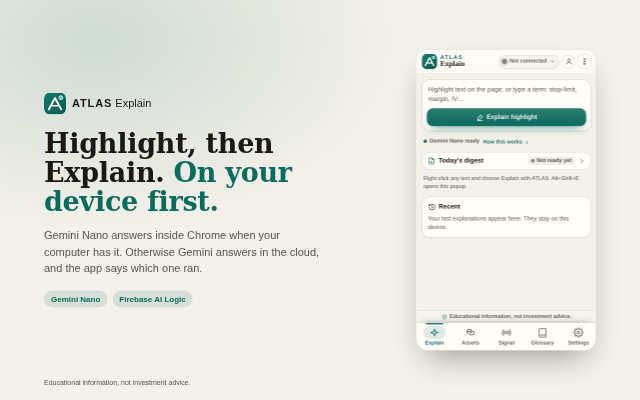
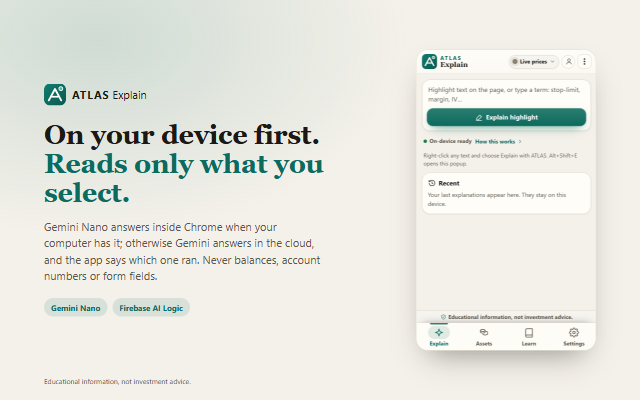
feat(store): search and link previews, fresh store images, optional ATLAS host
- Canonical URL, Open Graph and Twitter tags on every public page; 404 is noindex.
- robots.txt and sitemap.xml; a 1200x630 link-preview image.
- The localhost ATLAS host moves to optional_host_permissions, requested from a click in
  Settings ("For ATLAS users"). Install now warns only about our own website.
- Store images regenerated from the current popup, including a new Assets screenshot with
  live CoinGecko prices. Capture and render need only Node and Chrome (no Playwright).
- CHROME_STORE.md: permissions table, data usage and the manifest audit brought up to date.
- Tests: SEO tags, sitemap and robots; store doc covers optional hosts.

diff --git a/extension/src/popup.ts b/extension/src/popup.ts
@@ -196,10 +196,14 @@ let assets: ReturnType<typeof mountAssets> | null = null;
 let atlasLocal = false;
 let livePrices = false;
 
+/** ATLAS on this computer is read only after its owner grants this optional permission (Settings). */
+const ATLAS_ORIGINS = ["http://localhost:3000/*"];
+let atlasAllowed = false;
+
 function startAssets(priceFeed: PriceFeedOptions = DEFAULT_PRICE_FEED): void {
   assets = mountAssets({
     shell,
-    canReachAtlas: hasChrome,
+    canReachAtlas: hasChrome && atlasAllowed,
     priceFeed,
     // Kept on this device in the extension; account sync for the extension comes through the website later.
     watchlist: createWatchlist(localKeyValue(), null),
@@ -275,6 +279,14 @@ shell.panels.glossary.append(glossaryHead, learnSlot);
 /* ---------- Settings tab ---------- */
 
 const toolsStatus = el("p", "fine");
+// Asks for the optional localhost permission in the click itself (Chrome requires a user gesture).
+const atlasRow = row("plug", "Connect ATLAS on this computer", () => {
+  if (!hasChrome) return;
+  const change = atlasAllowed
+    ? chrome.permissions.remove({ origins: ATLAS_ORIGINS })
+    : chrome.permissions.request({ origins: ATLAS_ORIGINS });
+  void change.then(() => location.reload()).catch(() => undefined);
+});
 toolsStatus.setAttribute("role", "status");
 const themeSlot = el("div");
 const version = hasChrome ? chrome.runtime.getManifest().version : "preview";
@@ -300,6 +312,10 @@ shell.panels.settings.append(
   group("Your data", [
     el("p", "fine", "Download your data or delete your account on the ATLAS Explain website. Recent explanations in the extension stay in this browser; clear them from Recent."),
     row("external", "Download or delete your data", () => openUrl(`${EXPLAIN_WEB_URL}/app/account`)),
+  ]),
+  group("For ATLAS users", [
+    el("p", "fine", "If you run ATLAS research software on this computer, ATLAS Explain can read its prices and research figures. Most people don't need this."),
+    atlasRow,
   ]),
   group("About", [el("p", "fine", `ATLAS Explain ${version} · Apache-2.0 · ${SHORTCUT_HINT}`), row("external", "Open the web app", () => openUrl(EXPLAIN_WEB_URL))]),
 );
@@ -358,6 +374,9 @@ async function boot(): Promise<void> {
     if (import.meta.env.DEV) applyPreviewState();
     return;
   }
+  atlasAllowed = await chrome.permissions.contains({ origins: ATLAS_ORIGINS }).catch(() => false);
+  const atlasLabel = atlasRow.querySelector("span");
+  if (atlasLabel && atlasAllowed) atlasLabel.textContent = "Disconnect ATLAS on this computer";
   const priceFeed: PriceFeedOptions = { ...DEFAULT_PRICE_FEED };
   startAssets(priceFeed);
   void import("./cloud").then(async (cloud) => {

diff --git a/test/seo.test.ts b/test/seo.test.ts
@@ -1,0 +1,53 @@
+import { existsSync, readFileSync } from "node:fs";
+import { describe, expect, it } from "vitest";
+
+const BASE = "https://atlas-explain.web.app";
+const PAGES: Record<string, string> = {
+  "index.html": "/",
+  "how-it-works.html": "/how-it-works",
+  "how-its-built.html": "/how-its-built",
+  "welcome.html": "/welcome",
+  "support.html": "/support",
+  "privacy.html": "/privacy",
+  "terms.html": "/terms",
+  "app.html": "/app",
+};
+const meta = (html: string, attr: "name" | "property", key: string) =>
+  new RegExp(`<meta ${attr}="${key}" content="([^"]*)"`).exec(html)?.[1];
+
+describe("search and link previews", () => {
+  for (const [file, path] of Object.entries(PAGES)) {
+    it(`${file} has a canonical URL, a description and a full link preview`, () => {
+      const html = readFileSync(file, "utf8");
+      expect(html).toContain(`<link rel="canonical" href="${BASE}${path}" />`);
+      const desc = meta(html, "name", "description") ?? "";
+      expect(desc.length).toBeGreaterThan(40);
+      expect(desc.length).toBeLessThanOrEqual(170);
+      expect(meta(html, "property", "og:description")).toBe(desc);
+      expect(meta(html, "property", "og:url")).toBe(`${BASE}${path}`);
+      expect(meta(html, "property", "og:image")).toBe(`${BASE}/og/atlas-explain.png`);
+      expect(meta(html, "property", "og:title")).toBeTruthy();
+      expect(meta(html, "name", "twitter:card")).toBe("summary_large_image");
+      expect(html).not.toMatch(/name="robots" content="noindex"/);
+    });
+  }
+
+  it("keeps the 404 page out of search results", () => {
+    expect(readFileSync("404.html", "utf8")).toContain('<meta name="robots" content="noindex" />');
+  });
+
+  it("ships a 1200×630 preview image", () => {
+    const b = readFileSync("public/og/atlas-explain.png");
+    expect([b.readUInt32BE(16), b.readUInt32BE(20)]).toEqual([1200, 630]);
+  });
+
+  it("lists every public page in the sitemap, and robots.txt points to it", () => {
+    const sitemap = readFileSync("public/sitemap.xml", "utf8");
+    for (const path of Object.values(PAGES)) expect(sitemap).toContain(`<loc>${BASE}${path}</loc>`);
+    expect(sitemap.match(/<loc>/g)?.length).toBe(Object.keys(PAGES).length);
+    const robots = readFileSync("public/robots.txt", "utf8");
+    expect(robots).toContain(`Sitemap: ${BASE}/sitemap.xml`);
+    expect(robots).toMatch(/Disallow: \/signin/);
+    expect(existsSync("public/og/atlas-explain.png")).toBe(true);
+  });
+});

diff --git a/how-it-works.html b/how-it-works.html
@@ -4,7 +4,18 @@
     <meta charset="UTF-8" />
     <meta name="viewport" content="width=device-width, initial-scale=1, viewport-fit=cover" />
     <title>How it works · ATLAS Explain</title>
-    <meta name="description" content="How ATLAS Explain routes answers between Gemini Nano on your device and Gemini in the cloud, where its numbers come from, and how to install it." />
+    <meta name="description" content="How ATLAS Explain works: highlight a term, get a plain explanation written on your device first, with every source named. And how to install it." />
+    <link rel="canonical" href="https://atlas-explain.web.app/how-it-works" />
+    <meta property="og:type" content="website" />
+    <meta property="og:site_name" content="ATLAS Explain" />
+    <meta property="og:title" content="How it works · ATLAS Explain" />
+    <meta property="og:description" content="How ATLAS Explain works: highlight a term, get a plain explanation written on your device first, with every source named. And how to install it." />
+    <meta property="og:url" content="https://atlas-explain.web.app/how-it-works" />
+    <meta property="og:image" content="https://atlas-explain.web.app/og/atlas-explain.png" />
+    <meta property="og:image:width" content="1200" />
+    <meta property="og:image:height" content="630" />
+    <meta property="og:image:alt" content="ATLAS Explain: market jargon, in plain language." />
+    <meta name="twitter:card" content="summary_large_image" />
     <meta name="theme-color" content="#0c6b5e" />
     <link rel="icon" href="/favicon.svg" />
     <script type="module" src="/src/site/site.ts"></script>

diff --git a/how-its-built.html b/how-its-built.html
@@ -5,6 +5,17 @@
     <meta name="viewport" content="width=device-width, initial-scale=1, viewport-fit=cover" />
     <title>How it's built · ATLAS Explain</title>
     <meta name="description" content="The technical design of ATLAS Explain: hybrid on-device and cloud AI with Firebase AI Logic, Gemini Nano and Gemini, App Check, Remote Config and the Chrome extension." />
+    <link rel="canonical" href="https://atlas-explain.web.app/how-its-built" />
+    <meta property="og:type" content="website" />
+    <meta property="og:site_name" content="ATLAS Explain" />
+    <meta property="og:title" content="How it's built · ATLAS Explain" />
+    <meta property="og:description" content="The technical design of ATLAS Explain: hybrid on-device and cloud AI with Firebase AI Logic, Gemini Nano and Gemini, App Check, Remote Config and the Chrome extension." />
+    <meta property="og:url" content="https://atlas-explain.web.app/how-its-built" />
+    <meta property="og:image" content="https://atlas-explain.web.app/og/atlas-explain.png" />
+    <meta property="og:image:width" content="1200" />
+    <meta property="og:image:height" content="630" />
+    <meta property="og:image:alt" content="ATLAS Explain: market jargon, in plain language." />
+    <meta name="twitter:card" content="summary_large_image" />
     <meta name="theme-color" content="#0c6b5e" />
     <link rel="icon" href="/favicon.svg" />
     <script type="module" src="/src/site/site.ts"></script>

diff --git a/index.html b/index.html
@@ -5,6 +5,17 @@
     <meta name="viewport" content="width=device-width, initial-scale=1, viewport-fit=cover" />
     <title>ATLAS Explain for Chrome · Market jargon in plain language</title>
     <meta name="description" content="Highlight any finance term or market headline and get a plain-language explanation. Runs on your device first. Education only, never investment advice." />
+    <link rel="canonical" href="https://atlas-explain.web.app/" />
+    <meta property="og:type" content="website" />
+    <meta property="og:site_name" content="ATLAS Explain" />
+    <meta property="og:title" content="ATLAS Explain for Chrome · Market jargon in plain language" />
+    <meta property="og:description" content="Highlight any finance term or market headline and get a plain-language explanation. Runs on your device first. Education only, never investment advice." />
+    <meta property="og:url" content="https://atlas-explain.web.app/" />
+    <meta property="og:image" content="https://atlas-explain.web.app/og/atlas-explain.png" />
+    <meta property="og:image:width" content="1200" />
+    <meta property="og:image:height" content="630" />
+    <meta property="og:image:alt" content="ATLAS Explain: market jargon, in plain language." />
+    <meta name="twitter:card" content="summary_large_image" />
     <meta name="theme-color" content="#0c6b5e" />
     <link rel="icon" href="/favicon.svg" />
     <script type="module" src="/src/site/site.ts"></script>

diff --git a/terms.html b/terms.html
@@ -5,6 +5,17 @@
     <meta name="viewport" content="width=device-width, initial-scale=1, viewport-fit=cover" />
     <title>Terms of use · ATLAS Explain</title>
     <meta name="description" content="The terms for using ATLAS Explain: education only, fair use, your account, payments and refunds, and our responsibilities." />
+    <link rel="canonical" href="https://atlas-explain.web.app/terms" />
+    <meta property="og:type" content="website" />
+    <meta property="og:site_name" content="ATLAS Explain" />
+    <meta property="og:title" content="Terms of use · ATLAS Explain" />
+    <meta property="og:description" content="The terms for using ATLAS Explain: education only, fair use, your account, payments and refunds, and our responsibilities." />
+    <meta property="og:url" content="https://atlas-explain.web.app/terms" />
+    <meta property="og:image" content="https://atlas-explain.web.app/og/atlas-explain.png" />
+    <meta property="og:image:width" content="1200" />
+    <meta property="og:image:height" content="630" />
+    <meta property="og:image:alt" content="ATLAS Explain: market jargon, in plain language." />
+    <meta name="twitter:card" content="summary_large_image" />
     <meta name="theme-color" content="#0c6b5e" />
     <link rel="icon" href="/favicon.svg" />
     <script type="module" src="/src/site/site.ts"></script>

diff --git a/privacy.html b/privacy.html
@@ -5,6 +5,17 @@
     <meta name="viewport" content="width=device-width, initial-scale=1, viewport-fit=cover" />
     <title>Privacy policy · ATLAS Explain</title>
     <meta name="description" content="What ATLAS Explain collects, what it never collects, where your data goes, and how to download or delete it." />
+    <link rel="canonical" href="https://atlas-explain.web.app/privacy" />
+    <meta property="og:type" content="website" />
+    <meta property="og:site_name" content="ATLAS Explain" />
+    <meta property="og:title" content="Privacy policy · ATLAS Explain" />
+    <meta property="og:description" content="What ATLAS Explain collects, what it never collects, where your data goes, and how to download or delete it." />
+    <meta property="og:url" content="https://atlas-explain.web.app/privacy" />
+    <meta property="og:image" content="https://atlas-explain.web.app/og/atlas-explain.png" />
+    <meta property="og:image:width" content="1200" />
+    <meta property="og:image:height" content="630" />
+    <meta property="og:image:alt" content="ATLAS Explain: market jargon, in plain language." />
+    <meta name="twitter:card" content="summary_large_image" />
     <meta name="theme-color" content="#0c6b5e" />
     <link rel="icon" href="/favicon.svg" />
     <script type="module" src="/src/site/site.ts"></script>

diff --git a/welcome.html b/welcome.html
@@ -5,6 +5,17 @@
     <meta name="viewport" content="width=device-width, initial-scale=1, viewport-fit=cover" />
     <title>Welcome · ATLAS Explain</title>
     <meta name="description" content="Get started with ATLAS Explain in about 30 seconds: pin it, then highlight a term on this page to see it explained." />
+    <link rel="canonical" href="https://atlas-explain.web.app/welcome" />
+    <meta property="og:type" content="website" />
+    <meta property="og:site_name" content="ATLAS Explain" />
+    <meta property="og:title" content="Welcome · ATLAS Explain" />
+    <meta property="og:description" content="Get started with ATLAS Explain in about 30 seconds: pin it, then highlight a term on this page to see it explained." />
+    <meta property="og:url" content="https://atlas-explain.web.app/welcome" />
+    <meta property="og:image" content="https://atlas-explain.web.app/og/atlas-explain.png" />
+    <meta property="og:image:width" content="1200" />
+    <meta property="og:image:height" content="630" />
+    <meta property="og:image:alt" content="ATLAS Explain: market jargon, in plain language." />
+    <meta name="twitter:card" content="summary_large_image" />
     <meta name="theme-color" content="#0c6b5e" />
     <link rel="icon" href="/favicon.svg" />
     <script type="module" src="/src/site/site.ts"></script>

diff --git a/app.html b/app.html
@@ -5,6 +5,17 @@
     <meta name="viewport" content="width=device-width, initial-scale=1, viewport-fit=cover" />
     <title>ATLAS Explain</title>
     <meta name="description" content="ATLAS Explain app: plain-language explanations of market moves and trading terms. Education only, not financial advice." />
+    <link rel="canonical" href="https://atlas-explain.web.app/app" />
+    <meta property="og:type" content="website" />
+    <meta property="og:site_name" content="ATLAS Explain" />
+    <meta property="og:title" content="ATLAS Explain" />
+    <meta property="og:description" content="ATLAS Explain app: plain-language explanations of market moves and trading terms. Education only, not financial advice." />
+    <meta property="og:url" content="https://atlas-explain.web.app/app" />
+    <meta property="og:image" content="https://atlas-explain.web.app/og/atlas-explain.png" />
+    <meta property="og:image:width" content="1200" />
+    <meta property="og:image:height" content="630" />
+    <meta property="og:image:alt" content="ATLAS Explain: market jargon, in plain language." />
+    <meta name="twitter:card" content="summary_large_image" />
     <meta name="theme-color" content="#0c6b5e" />
     <link rel="icon" href="/favicon.svg" />
   </head>

diff --git a/support.html b/support.html
@@ -5,6 +5,17 @@
     <meta name="viewport" content="width=device-width, initial-scale=1, viewport-fit=cover" />
     <title>Support and FAQ · ATLAS Explain</title>
     <meta name="description" content="Get help with ATLAS Explain and read the frequently asked questions." />
+    <link rel="canonical" href="https://atlas-explain.web.app/support" />
+    <meta property="og:type" content="website" />
+    <meta property="og:site_name" content="ATLAS Explain" />
+    <meta property="og:title" content="Support and FAQ · ATLAS Explain" />
+    <meta property="og:description" content="Get help with ATLAS Explain and read the frequently asked questions." />
+    <meta property="og:url" content="https://atlas-explain.web.app/support" />
+    <meta property="og:image" content="https://atlas-explain.web.app/og/atlas-explain.png" />
+    <meta property="og:image:width" content="1200" />
+    <meta property="og:image:height" content="630" />
+    <meta property="og:image:alt" content="ATLAS Explain: market jargon, in plain language." />
+    <meta name="twitter:card" content="summary_large_image" />
     <meta name="theme-color" content="#0c6b5e" />
     <link rel="icon" href="/favicon.svg" />
     <script type="module" src="/src/site/site.ts"></script>

diff --git a/test/assets-ui.test.ts b/test/assets-ui.test.ts
@@ -15,8 +15,11 @@ describe("assets UI and extension", () => {
   const web = readFileSync("src/web/app.ts", "utf8");
   const legal = readFileSync("src/wallet/legal.ts", "utf8");
 
-  it("asks only for the local ATLAS host and our own web app, and explains why in plain words", () => {
-    expect(manifest.host_permissions).toEqual(["http://localhost:3000/*", "https://atlas-explain.web.app/*"]);
+  it("asks at install only for our own web app; the local ATLAS host is optional and requested on demand", () => {
+    expect(manifest.host_permissions).toEqual(["https://atlas-explain.web.app/*"]);
+    expect((manifest as { optional_host_permissions?: string[] }).optional_host_permissions).toEqual(["http://localhost:3000/*"]);
+    expect(popup).toContain("chrome.permissions.request({ origins: ATLAS_ORIGINS })");
+    expect(popup).toContain("canReachAtlas: hasChrome && atlasAllowed");
     expect(LOCAL_ATLAS_PERMISSION_NOTE).toMatch(/atlas-explain\.web\.app/);
     expect(LOCAL_ATLAS_PERMISSION_NOTE).toMatch(/ATLAS research software/);
     expect(LOCAL_ATLAS_PERMISSION_NOTE).toMatch(/never reads balances, accounts or keys/);

diff --git a/test/chrome-store.test.ts b/test/chrome-store.test.ts
@@ -26,7 +26,7 @@ describe("Chrome Web Store readiness", () => {
       ["store/promo-small-440x280.png", 440, 280],
       ["store/promo-marquee-1400x560.png", 1400, 560],
     ];
-    for (const n of ["1-explain", "2-highlight", "3-sidepanel", "4-learn", "5-privacy"]) {
+    for (const n of ["1-explain", "2-highlight", "3-sidepanel", "4-assets", "5-learn"]) {
       files.push([`store/screenshot-${n}-1280x800.png`, 1280, 800], [`store/screenshot-${n}-640x400.png`, 640, 400]);
     }
     for (const [file, w, h] of files) {
@@ -44,7 +44,7 @@ describe("Chrome Web Store readiness", () => {
   });
 
   it("documents a justification for every permission and host, and the privacy URL", () => {
-    for (const p of [...manifest.permissions, ...manifest.optional_permissions, ...manifest.host_permissions]) {
+    for (const p of [...manifest.permissions, ...manifest.optional_permissions, ...manifest.host_permissions, ...(manifest.optional_host_permissions ?? [])]) {
       expect(doc, p).toContain(`\`${p}\``);
     }
     expect(doc).toContain("https://atlas-explain.web.app/privacy");
